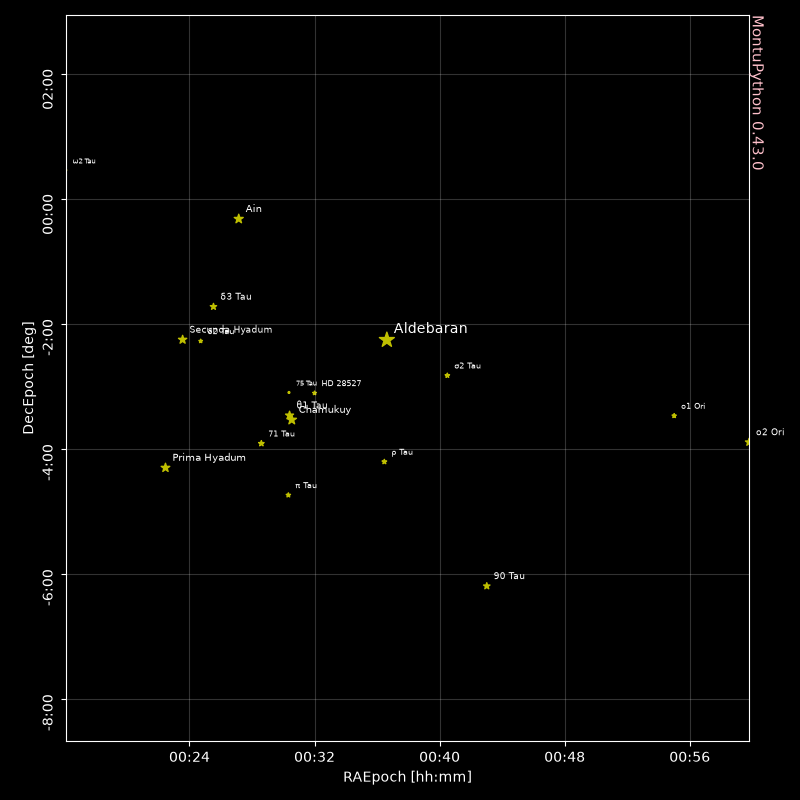
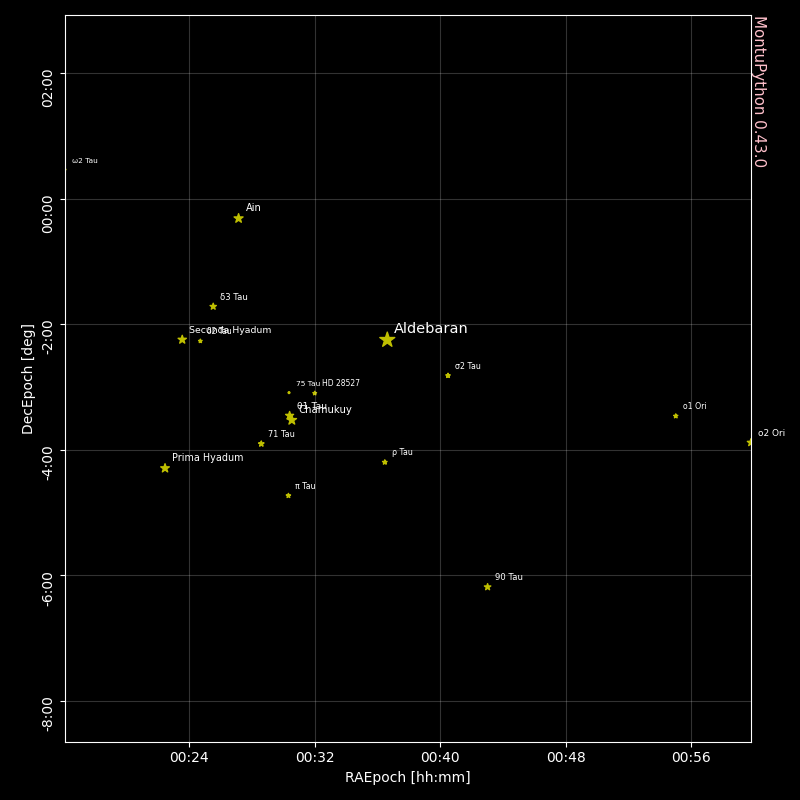
Desktop release 0.5.0

diff --git a/montu_gui/version.py b/montu_gui/version.py
@@ -3,5 +3,5 @@
 Bump ``version`` and ``release_date`` when releasing.
 """
 
-version = "0.4.0"
+version = "0.5.0"
 release_date = "2026-07-17"
